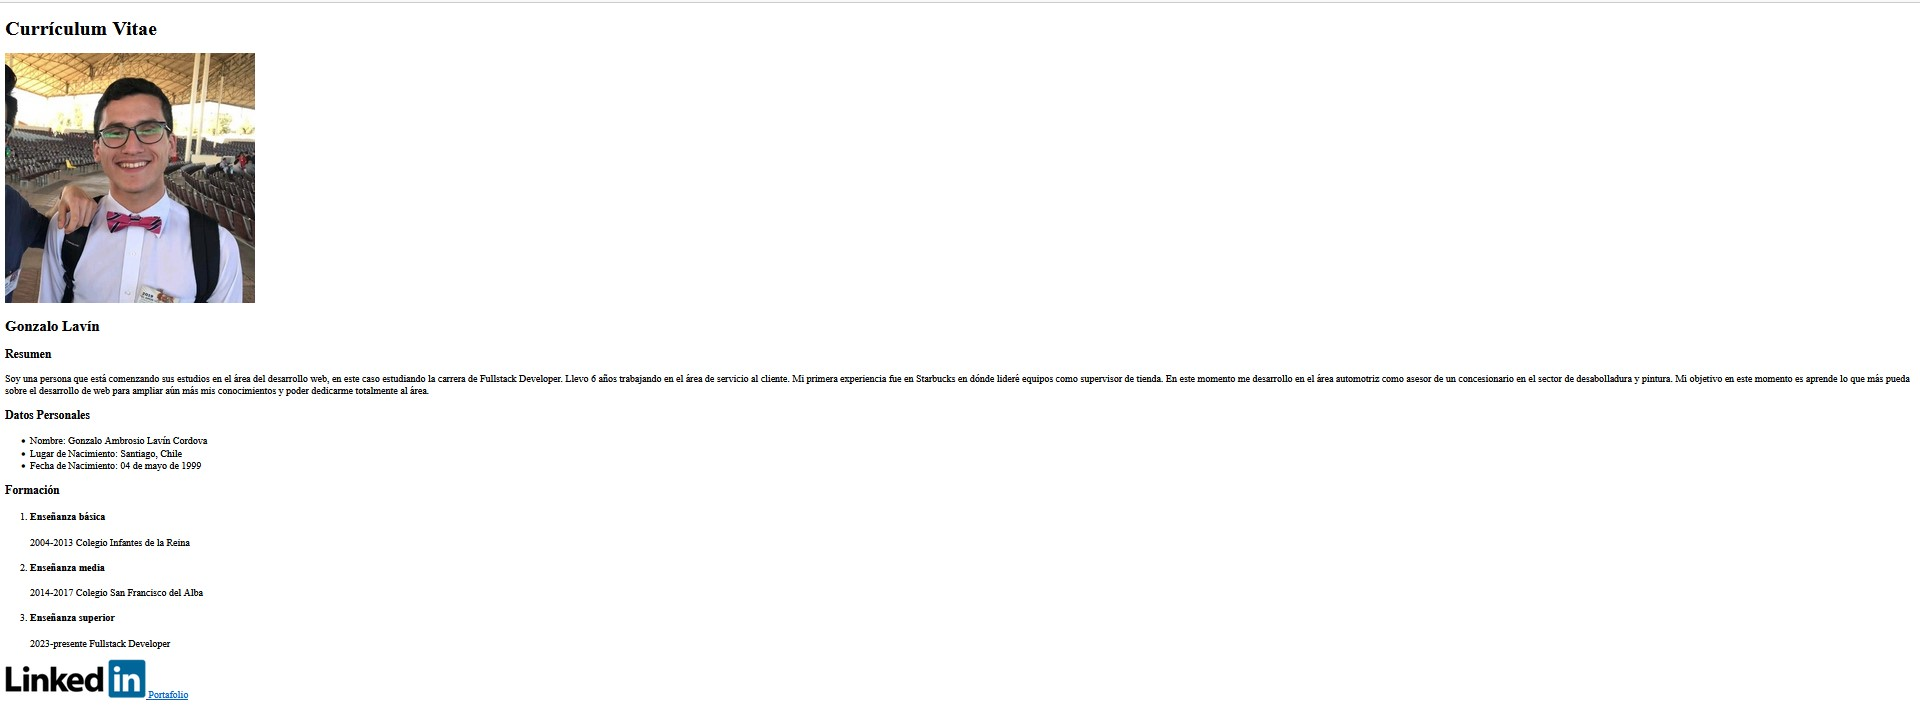
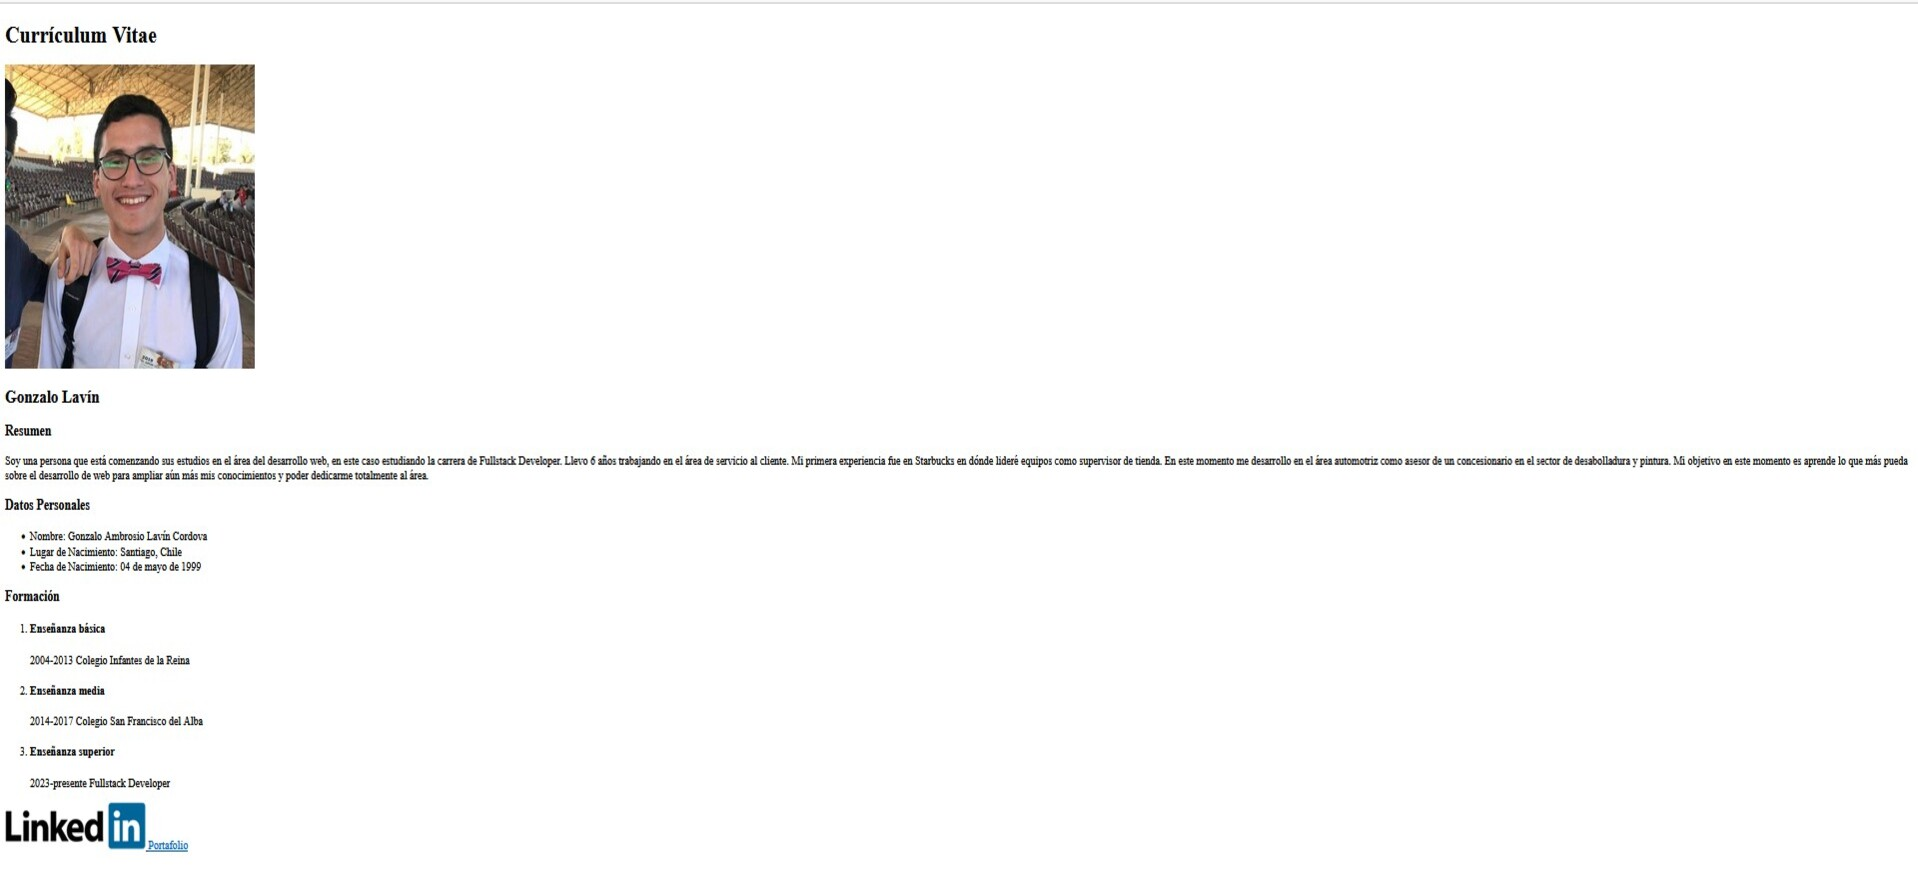
Arreglé  tamaño imágenes

diff --git a/index.html b/index.html
@@ -19,7 +19,8 @@
   </head>
   <body>
     <header>
-      <h1>Currículum Vitae</h1>
+      <h1 class="titulo">Currículum Vitae</h1>
+
       <img src="assets/imgs/currículum.jpg" alt="Foto tipo currículum Vitae" />
     </header>
     <h2>Gonzalo Lavín</h2>
@@ -62,11 +63,10 @@
       target="_blank"
       ><img src="assets/imgs/LinkedIn_Logo.svg.png" alt="Linkedin Logo" />
     </a>
-    <div class="row row-cols-1 row-cols-md-2 g-4">
+    <div class="row row-cols-1 row-cols-md-2 row-cols-sm-2 row-col-xs-2 g-4">
       <div class="col">
         <div class="card border-dark mt-2 ms-2">
           <img
-            style="height: 340px"
             src="assets/imgs/html.jpg"
             class="card-img-top"
             alt="Proyecto HTML"
@@ -82,7 +82,7 @@
         <div class="card border-dark me-2 mt-2">
           <img
             src="assets/imgs/proyecto_css.jpg"
-            class="card-img-top imgs"
+            class="card-img-top"
             alt="Proyecto CSS"
           />
           <div class="card-body">
@@ -98,12 +98,7 @@
       </div>
       <div class="col">
         <div class="card border-dark ms-2">
-          <img
-            src="assets/imgs/flex.jpg"
-            class="card-img-top"
-            alt="..."
-            style="width: 746px; height: 500px"
-          />
+          <img src="assets/imgs/flex.jpg" class="card-img-top" alt="..." />
           <div class="card-body">
             <h5 class="card-title">Proyecto Flex</h5>
             <p class="card-text">Proyecto usando por primera vez Flex</p>
@@ -121,7 +116,6 @@
             src="assets/imgs/bootstrap.jpg"
             class="card-img-top imgs"
             alt="Proyecto de bootstrap"
-            style="height: 500px"
           />
           <div class="card-body">
             <h5 class="card-title">Proyecto Bootstrap</h5>

diff --git a/assets/css/style.css b/assets/css/style.css
@@ -1,5 +1,4 @@
-.imgs {
-  width: 100px;
-  height: 100px;
-  size: 100px;
+.titulo {
+  display: flex;
+  justify-content: center;
 }
